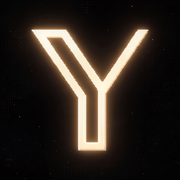
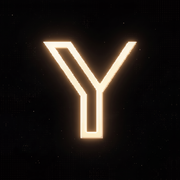
Add files via upload

Changed region(s): [[0.1389, 0.0833, 0.8611, 0.8889]]

diff --git a/config.js b/config.js
@@ -1,1 +1,1 @@
-window.Y_CFG={NAME:"Y",TICKER:"Y",CA:"",CHAIN:"solana",PAD:"pumpfun",TREASURY:"",X:"",BUY:"",CHART:"",CHECK_SOL:0.01,LOGO:""};
+window.Y_CFG={NAME:"Y",TICKER:"Y",CA:"",CHAIN:"solana",PAD:"pumpfun",TREASURY:"",X:"",BUY:"",CHART:"",CHECK_SOL:0.01,LOGO:"y.png"};
